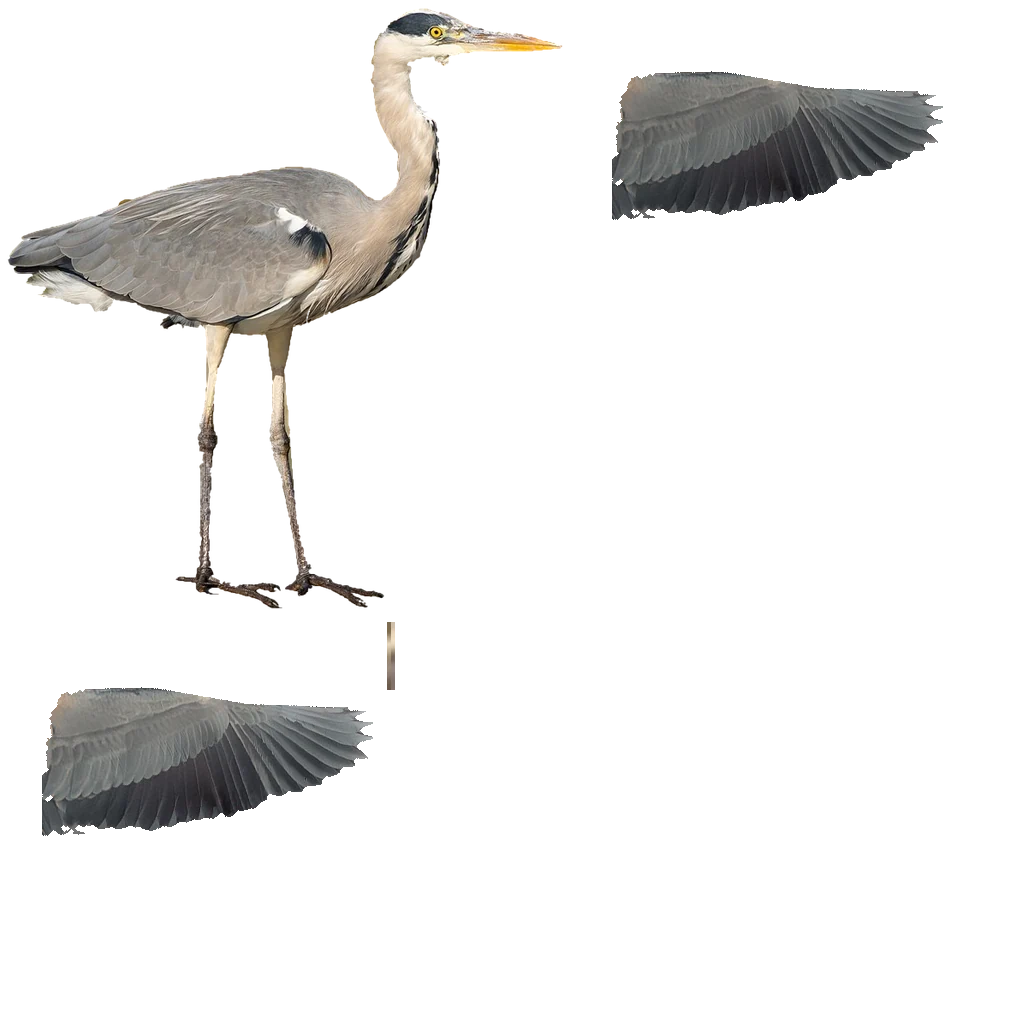
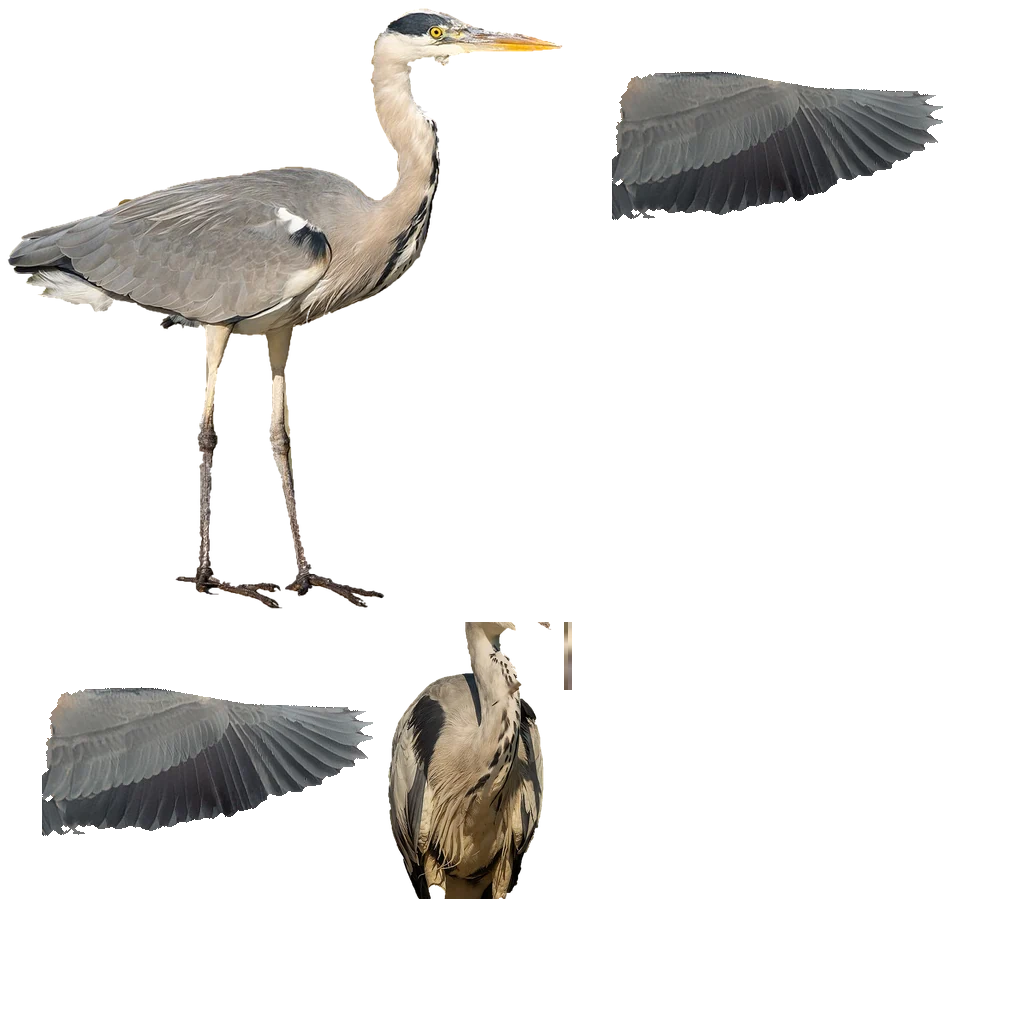
Paint the heron's breast and neck front from a photo taken in front
The standing heron's body was painted from one side-on photo projected
across it, so from in front its breast and neck showed that photo's
colours wrapped round: smeared black blobs and rings instead of the white
neck's black streak and the breast's hanging plumes. Now that it turns
to put its back to the sun, it faces the eye more often.

bird-models.py now takes a `front` photo for a standing kind: a grey
heron facing the camera in Busan (CC BY-SA 4.0, by Basile Morin, so the
heron's image is shared under CC BY-SA too). It is cut out from the chin
to the belly, with the eel across its neck painted out, and brought into
the side photo's warmer light by its white neck. Its rows are matched to
the side photo's at the crown, chin, shoulders, plume ends and belly.
models.json carries, at heights up the body, the front picture's row and
the bird's middle and half-width across it. The mesh projects each
trunk, neck and head vertex into it by height and sideways position.
Wherever the surface faces forward (by its triangles' normals, since the
trunk rings' own normals never point forward), the shader takes the
front photo's colour; the rest keeps the side photo's, so side on the
heron is as it was.

The fliers keep the side photo alone: they are seen side on, or at 30 m
and more, where the body is a few pixels.

Claude-Session: https://claude.ai/code/session_012iNshuFMyvbkPRWxxbwWQm

Changed region(s): [[0.375, 0.5938, 0.5625, 0.875]]

diff --git a/src/birdMeshes.js b/src/birdMeshes.js
@@ -20,6 +20,9 @@
 //     kind's head (`crown`: the skull's top under the crest) is that ring
 //     from its throat to its crown, and its crest above it a fin CREST_FIN
 //     thick, so from in front it is a crest, not a cone as wide as the head;
+//     a standing kind seen near (the heron) has its breast and the front of
+//     its neck painted from a photograph taken from in front (models.json
+//     `front`, frontPaint), as much as they face forward;
 //   - the wings: each a sheet over the flattened wing's outline (`wing`: its
 //     leading and trailing edges along the span), painted from below with the
 //     photograph's underwing and from above with its upper side (gl_FrontFacing
@@ -130,8 +133,10 @@ ${SEEN_THROUGH_WATER}
 attribute vec2 joints;        // the two joints it is skinned to
 attribute float jointBlend;   // the second's share
 attribute float part;
+attribute vec3 front;         // a standing kind's front picture's uv, and how much it is painted from it (frontPaint)
 varying vec2 vUv;
 varying float vPart;
+varying vec3 vFront;
 varying vec3 vNormal;
 varying vec3 vWorld;
 varying vec3 vViewPosition;
@@ -150,13 +155,14 @@ void main() {
   vViewPosition = -mvPosition.xyz;
   vUv = uv;
   vPart = part;
+  vFront = front;
   gl_Position = projectionMatrix * mvPosition;
 }
 `;
 
 const FRAGMENT = /* glsl */ `
 uniform sampler2D uAtlas;
-uniform vec4 uRects[4];       // body, underwing, upper wing, tail: x, y, width, height (uv, from its top left)
+uniform vec4 uRects[5];       // body, underwing, upper wing, tail, a standing kind's front: x, y, width, height (uv, from its top left)
 uniform vec3 uSunIrradiance;
 uniform vec3 uSkyAmbient;
 uniform vec3 uSunDirection;
@@ -165,6 +171,7 @@ uniform vec3 uWaterColor;   // the water's own radiance, for an eye under it
 ${BIRD_HAZE}
 varying vec2 vUv;
 varying float vPart;
+varying vec3 vFront;
 varying vec3 vNormal;
 varying vec3 vWorld;
 varying vec3 vViewPosition;
@@ -181,6 +188,9 @@ void main() {
     if (!gl_FrontFacing) normal = -normal;
   }
   vec4 picture = texture2D(uAtlas, rect.xy + vUv * rect.zw);
+  // What faces forward on a standing kind's breast and neck, from its front photograph (frontPaint).
+  vec4 frontPicture = texture2D(uAtlas, uRects[4].xy + vFront.xy * uRects[4].zw);
+  if (vPart < 0.5) picture.rgb = mix(picture.rgb, frontPicture.rgb, vFront.z);
   if (vPart > 2.5) {
     // A fish in its bill (PART.prey): no picture, a small pond fish's colours (a dark olive back over silver flanks
     // and a pale belly, vUv.y up its side from the belly), its flank catching the light as a fish's scales do.
@@ -431,6 +441,7 @@ export function buildModel(entry) {
   geometry.setAttribute('joints', new THREE.Float32BufferAttribute(joints, 2));
   geometry.setAttribute('jointBlend', new THREE.Float32BufferAttribute(blends, 1));
   geometry.setAttribute('part', new THREE.Float32BufferAttribute(parts, 1));
+  geometry.setAttribute('front', new THREE.Float32BufferAttribute(new Float32Array(parts.length * 3), 3));   // painted from the side alone (a flier is seen side on, or far off)
   geometry.setIndex(indices);
   return { geometry, joints: modelJoints, span: entry.span, length, radius: Math.max(entry.span, length) * 0.6 };
 }
@@ -494,12 +505,66 @@ function addPrey(neck, add, indices) {
   return { grip, along, across };
 }
 
+const FRONT_FACING = [0.25, 0.65];   // a vertex's normal forward (x) from which it starts to be painted from the front photo, and is all
+const FRONT_FADE = [0.03, 0.04];     // m over which the front photo fades in above the belly and out below the chin
+
+/**
+ * A standing kind's front (models.json `front`, tools/bird-models.py front_part), for its first `count` vertices (the
+ * trunk's, the neck's and the head's): each vertex's place on the front picture and how much it is painted from it,
+ * three numbers a vertex (none for the rest). Seen from in front, the bird at a height is as wide as its widest vertex
+ * there (the trunk's, or the neck's above it): a vertex `z` across from the middle is that share of the photo's
+ * half-width across the photo's middle there (its right side, +z, on the photo's left), the photo's row the height's.
+ * What faces forward (FRONT_FACING) takes the front photo's colour, between the belly and the chin (FRONT_FADE); the
+ * rest keeps the side photo's.
+ */
+function frontPaint(front, positions, normals, indices, count) {
+  const paint = new Float32Array((positions.length / 3) * 3);
+  if (!front) return paint;
+  // Which way each vertex faces, from its triangles (the trunk's rings carry normals straight out from its axis, so
+  // its rounded front, where it narrows to the breast, would never face forward), turned outward as its own normal is
+  // (the trunk's and the neck's rings wind opposite ways).
+  const facing = new Float32Array(count * 3), a = new THREE.Vector3(), b = new THREE.Vector3(), c = new THREE.Vector3();
+  for (let index = 0; index < indices.length; index += 3) {
+    const [i, j, k] = [indices[index], indices[index + 1], indices[index + 2]];
+    if (i >= count || j >= count || k >= count) continue;
+    a.fromArray(positions, i * 3); b.fromArray(positions, j * 3).sub(a); c.fromArray(positions, k * 3).sub(a);
+    b.cross(c);   // its area's normal
+    for (const vertex of [i, j, k]) for (let axis = 0; axis < 3; axis++) facing[vertex * 3 + axis] += b.getComponent(axis);
+  }
+  const { heights } = front, stations = heights.length;
+  const lowest = heights[0], highest = heights[stations - 1];
+  const stationOf = (y) => THREE.MathUtils.clamp((y - lowest) / (highest - lowest) * (stations - 1), 0, stations - 1);
+  const widest = new Float32Array(stations).fill(1e-3);
+  for (let vertex = 0; vertex < count; vertex++) {
+    const y = positions[vertex * 3 + 1];
+    if (y < lowest || y > highest) continue;
+    const station = Math.round(stationOf(y));
+    widest[station] = Math.max(widest[station], Math.abs(positions[vertex * 3 + 2]));
+  }
+  const at = (values, y) => {
+    const station = stationOf(y), below = Math.floor(station), above = Math.min(below + 1, stations - 1);
+    return values[below] + (values[above] - values[below]) * (station - below);
+  };
+  for (let vertex = 0; vertex < count; vertex++) {
+    const y = positions[vertex * 3 + 1], z = positions[vertex * 3 + 2];
+    const length = Math.hypot(facing[vertex * 3], facing[vertex * 3 + 1], facing[vertex * 3 + 2]);
+    const outward = facing[vertex * 3] * normals[vertex * 3] + facing[vertex * 3 + 1] * normals[vertex * 3 + 1] + facing[vertex * 3 + 2] * normals[vertex * 3 + 2] < 0 ? -1 : 1;
+    const forward = outward * facing[vertex * 3] / Math.max(length, 1e-12);
+    const within = THREE.MathUtils.smoothstep(y, lowest, lowest + FRONT_FADE[0]) * (1 - THREE.MathUtils.smoothstep(y, highest - FRONT_FADE[1], highest));
+    paint[vertex * 3] = at(front.middle, y) - (z / at(widest, y)) * at(front.half, y);
+    paint[vertex * 3 + 1] = at(front.v, y);
+    paint[vertex * 3 + 2] = THREE.MathUtils.smoothstep(forward, FRONT_FACING[0], FRONT_FACING[1]) * within;
+  }
+  return paint;
+}
+
 /**
  * A standing kind's model from its models.json entry (tools/bird-models.py side_part): metres from its hips, its bill
  * along +x, up +y, its right side +z. Every part of it but the wings is painted from its side picture, projected across
  * it (side on, the photograph): the trunk lofted from its outline; the neck and head a tube along the neck's middle
  * line, as thick as the photo's neck there; each leg a thin tube along the photo's leg, hip to heel to foot, and its toes
- * spread on the ground; the wings as a flying kind's (buildModel), folded away by the rig when it stands.
+ * spread on the ground; the wings as a flying kind's (buildModel), folded away by the rig when it stands. What faces
+ * forward on its breast and neck is painted from its front picture instead, where it has one (frontPaint).
  */
 export function buildStandingModel(entry) {
   const positions = [], normals = [], uvs = [], joints = [], blends = [], parts = [], indices = [];
@@ -593,6 +658,7 @@ export function buildStandingModel(entry) {
       }
     }
   }
+  const bodyVertices = positions.length / 3;   // the trunk's, the neck's and the head's (frontPaint)
   // A thin tube along points ([x, y, z], radius each, joint each), painted from the picture under its middle line.
   const limb = (points, part = PART.body) => {
     const first = positions.length / 3;
@@ -653,6 +719,7 @@ export function buildStandingModel(entry) {
   geometry.setAttribute('joints', new THREE.Float32BufferAttribute(joints, 2));
   geometry.setAttribute('jointBlend', new THREE.Float32BufferAttribute(blends, 1));
   geometry.setAttribute('part', new THREE.Float32BufferAttribute(parts, 1));
+  geometry.setAttribute('front', new THREE.Float32BufferAttribute(frontPaint(entry.front, positions, normals, indices, bodyVertices), 3));
   geometry.setIndex(indices);
   const hipsHeight = -Math.min(...side.legs.map((leg) => leg.foot[1]));
   // The neck's joints, and each link's direction as photographed (the last the head's: the nape to the bill's tip).
@@ -717,7 +784,7 @@ export function createBirdView({ lighting, haze, mirrorLayer, onLoaded = () => {
       texture.needsUpdate = true;
       const model = entry.standing ? buildStandingModel(entry) : buildModel(entry);
       // A standing kind's fourth picture is its legs' colours (a column a leg, buildStandingModel), where a flying kind's is its tail's.
-      const rects = (entry.standing ? ['side', 'under', 'upper', 'legs'] : ['body', 'under', 'upper', 'tail']).map((name) => new THREE.Vector4(...entry.uv[name]));
+      const rects = (entry.standing ? ['side', 'under', 'upper', 'legs', entry.front ? 'front' : 'side'] : ['body', 'under', 'upper', 'tail', 'body']).map((name) => new THREE.Vector4(...entry.uv[name]));
       kinds.set(kind, { model, texture, rects });
       for (const sprite of sprites) if (sprite.kind === kind) dress(sprite);
       onLoaded();
@@ -742,7 +809,7 @@ export function createBirdView({ lighting, haze, mirrorLayer, onLoaded = () => {
     const uniforms = {
       ...shared,
       uAtlas: { value: standIn },
-      uRects: { value: [0, 1, 2, 3].map(() => new THREE.Vector4(0, 0, 1, 1)) },
+      uRects: { value: [0, 1, 2, 3, 4].map(() => new THREE.Vector4(0, 0, 1, 1)) },
       uJoints: { value: Array.from({ length: JOINT_COUNT }, () => new THREE.Matrix4()) },
     };
     const placeholder = new THREE.BufferGeometry();
@@ -844,6 +911,7 @@ export function createBirdView({ lighting, haze, mirrorLayer, onLoaded = () => {
     geometry.setAttribute('joints', new THREE.Float32BufferAttribute(new Float32Array(geometry.attributes.position.count * 2), 2));
     geometry.setAttribute('jointBlend', new THREE.Float32BufferAttribute(new Float32Array(geometry.attributes.position.count), 1));
     geometry.setAttribute('part', new THREE.Float32BufferAttribute(new Float32Array(geometry.attributes.position.count), 1));
+    geometry.setAttribute('front', new THREE.Float32BufferAttribute(new Float32Array(geometry.attributes.position.count * 3), 3));
     const meshes = [...sprite.meshes, sprite.under];
     const was = meshes.map((mesh) => mesh.geometry);
     for (const mesh of meshes) { mesh.geometry = geometry; mesh.visible = true; mesh.frustumCulled = false; }

diff --git a/credits.html b/credits.html
@@ -40,7 +40,7 @@
 </table></div>
 <p>The stitched backdrops' skies are Poly Haven's Qwantani pure skies (below).</p>
 <h2>Birds</h2>
-<p>The birds are photographs of real ones from Wikimedia Commons, cut out of their backgrounds and resized, or for the 3D birds painted onto their models (<code>tools/bird-sprites.py</code>, <code>tools/bird-models.py</code>; this section is written by <code>tools/bird-credits.mjs</code> from the credits they record). Because the kelp gull's, herring gull's, african sacred ibis's, blue jay's and northern cardinal's images are made from CC BY-SA photographs, they are shared under <a href="https://creativecommons.org/licenses/by-sa/4.0/">CC BY-SA 4.0</a> too.</p>
+<p>The birds are photographs of real ones from Wikimedia Commons, cut out of their backgrounds and resized, or for the 3D birds painted onto their models (<code>tools/bird-sprites.py</code>, <code>tools/bird-models.py</code>; this section is written by <code>tools/bird-credits.mjs</code> from the credits they record). Because the kelp gull's, herring gull's, grey heron's, african sacred ibis's, blue jay's and northern cardinal's images are made from CC BY-SA photographs, they are shared under <a href="https://creativecommons.org/licenses/by-sa/4.0/">CC BY-SA 4.0</a> too.</p>
 <div class="table"><table>
 <tr><th>Shows</th><th>Photograph</th><th>Author</th><th>Licence</th></tr>
 <tr><td>Kelp gull (Rocky cove)</td><td><a href="https://commons.wikimedia.org/wiki/File:Kelp_gull_half_moon_island_1.17.25_DSC_9790-topaz-rawdenoise.jpg">Kelp gull half moon island 1.17.25 DSC 9790-topaz-rawdenoise</a></td><td>lwolfartist</td><td><a href="https://creativecommons.org/licenses/by/2.0/">CC BY 2.0</a></td></tr>
@@ -51,6 +51,7 @@
 <tr><td>Herring gull (Loch Ness)</td><td><a href="https://commons.wikimedia.org/wiki/File:Herring_gull_in_flight_%2800905%29.jpg">Herring gull in flight (00905)</a></td><td>Rhododendrites</td><td><a href="https://creativecommons.org/licenses/by-sa/4.0/">CC BY-SA 4.0</a></td></tr>
 <tr><td>Grey heron (Koi pond, Highlands)</td><td><a href="https://commons.wikimedia.org/wiki/File:Grey_heron_2025_10_26_02.jpg">Grey heron 2025 10 26 02</a></td><td>Alexis Lours</td><td><a href="https://creativecommons.org/licenses/by/4.0/">CC BY 4.0</a></td></tr>
 <tr><td>Grey heron (Koi pond, Highlands)</td><td><a href="https://commons.wikimedia.org/wiki/File:Ardea_cinerea_EM1B6250_%2833380183305%29.jpg">Ardea cinerea EM1B6250 (33380183305)</a></td><td>Bengt Nyman</td><td><a href="https://creativecommons.org/licenses/by/2.0/">CC BY 2.0</a></td></tr>
+<tr><td>Grey heron (Koi pond, Highlands)</td><td><a href="https://commons.wikimedia.org/wiki/File:Front_view_of_a_grey_heron_eating_fish_near_a_pond_of_Busan_Citizens_Park_in_South_Korea.jpg">Front view of a grey heron eating fish near a pond of Busan Citizens Park in South Korea</a></td><td>Basile Morin</td><td><a href="https://creativecommons.org/licenses/by-sa/4.0/">CC BY-SA 4.0</a></td></tr>
 <tr><td>Great frigatebird (Polynesian lagoon)</td><td><a href="https://commons.wikimedia.org/wiki/File:Great_Frigatebird_%28_immature%29_Eastern_Island_Midway_Atoll_2019-01-07_16-16-20_%2846379948975%29.jpg">Great Frigatebird ( immature) Eastern Island Midway Atoll 2019-01-07 16-16-20 (46379948975)</a></td><td>Bettina Arrigoni</td><td><a href="https://creativecommons.org/licenses/by/2.0/">CC BY 2.0</a></td></tr>
 <tr><td>Great frigatebird (Polynesian lagoon)</td><td><a href="https://commons.wikimedia.org/wiki/File:Great_Frigatebird_%28_immature%29_Eastern_Island_Midway_Atoll_2019-01-07_16-22-01_%2846571488854%29.jpg">Great Frigatebird ( immature) Eastern Island Midway Atoll 2019-01-07 16-22-01 (46571488854)</a></td><td>Bettina Arrigoni</td><td><a href="https://creativecommons.org/licenses/by/2.0/">CC BY 2.0</a></td></tr>
 <tr><td>Common raven (Swiss Alps)</td><td><a href="https://commons.wikimedia.org/wiki/File:Common_Raven_on_Seedskadee_NWR_%2822849558584%29.jpg">Common Raven on Seedskadee NWR (22849558584)</a></td><td>USFWS Mountain-Prairie</td><td><a href="https://creativecommons.org/publicdomain/mark/1.0/">Public domain</a></td></tr>

diff --git a/tools/bird-models.py b/tools/bird-models.py
@@ -41,6 +41,15 @@
 #     the shade the body casts on the wing's root is lifted (`unshade`).
 #   - the tail, a fan: its colour the body photo's at the tail, or its own
 #     feathers drawn from it (`tailFan`).
+#   - a standing bird's front (`front`): a photograph of it from in front, cut
+#     out from the chin down to its belly, its rows matched to the side photo's
+#     (`rows`: front photo row, side photo row, at the crown, chin, shoulders,
+#     the breast's plumes and the belly), so models.json carries, at heights
+#     up the body (m from the hips), the front picture's row there and the
+#     middle and half-width of the bird across it; src/birdMeshes.js paints
+#     what faces forward from it (the breast and the neck's front), the rest
+#     from the side photo. What lies across the bird (a fish in its bill) is
+#     painted out (`mend`).
 # Each is cut out of its sky as tools/bird-sprites.py cuts a bird (a smooth
 # fit of the sky, refitted; the alpha its distance from it), brought to a
 # common light (`gamma`, then `gain` per channel) and packed with the others into the
@@ -93,7 +102,8 @@ KINDS = {
         tailColour='body',
     ),
     # Grey heron: standing side on on a rock (cut out by GrabCut, whole down to its toes), its trunk, neck and head and
-    # legs traced on it; a wing from a heron overhead (its far wing raised, spread flat to the camera).
+    # legs traced on it; a wing from a heron overhead (its far wing raised, spread flat to the camera); its breast and
+    # neck's front from a heron facing the camera. That photograph is CC BY-SA, so this kind's image is shared so too.
     'heron': dict(
         length=0.92, span=1.75, standing=True,
         side=dict(file='Grey heron 2025 10 26 02.jpg', author='Alexis Lours', licence=CC_BY_4,
@@ -126,6 +136,17 @@ KINDS = {
                   points=[(643, 523), (760, 577), (723, 337), (868, 347)],
                   at=[(0.08, 0.06), (0.08, -0.27), (0.49, 0.06), (0.56, -0.24)],
                   low=20, high=48, gamma=1.0, gain=(1.08, 1.0, 0.9), neutral=True, upper=dict(tint=(1.0, 1.0, 1.0)), under=dict(tint=(0.9, 0.9, 0.9))),
+        # From in front, eating an eel by a pond in Busan (its head turned and the eel across its neck: painted from
+        # the chin down, the eel painted out), brought into the side photo's warmer light by its white neck.
+        front=dict(file='Front view of a grey heron eating fish near a pond of Busan Citizens Park in South Korea.jpg', author='Basile Morin', licence=CC_BY_SA_4,
+                   box=(380, 380, 820), waterline=1200, gain=(0.889, 0.832, 0.772),
+                   outline=[(620, 395), (700, 400), (715, 470), (690, 530), (700, 610), (770, 650), (790, 720), (795, 900), (780, 1080), (740, 1200), (560, 1200), (480, 1150),
+                            (425, 1040), (410, 850), (425, 700), (500, 650), (600, 610), (605, 520), (600, 450)],
+                   surely=[([(650, 430), (645, 540), (640, 690)], 16), ([(600, 760), (600, 1080)], 50), ([(470, 760), (470, 1000)], 20), ([(735, 760), (735, 1000)], 20)],
+                   notBird=[([(350, 500), (370, 1190)], 20), ([(860, 700), (850, 1190)], 20), ([(520, 420), (545, 600)], 14), ([(760, 620), (860, 640)], 10)],
+                   mend=[([(850, 580), (780, 600), (710, 650), (670, 690)], 18)],
+                   # Front photo row, side photo row: the crown, the chin, the shoulders, the breast's plumes' ends, the belly.
+                   rows=[(406, 100), (520, 168), (690, 290), (1000, 430), (1140, 484)]),
     ),
     # Blue jay (the Reflecting Pool): its body side on, foraging on the ground (its head raised, so levelled along its
     # body: `level`; its folded wing painted out, `repaint`, the back's blue down to where the spread wing's root is and
@@ -763,6 +784,51 @@ def side_part(spec, length):
     }
 
 
+def front_part(spec, side, length):
+    """A standing bird from in front (the header's `front`): its picture from the chin to the belly (RGBA), and at
+    heights up its body (m from the hips, by the side photo's scale) the picture's row (v, from its top) and the bird's
+    middle and half-width across it (u), each 0 to 1 over the picture."""
+    image = mended(photo(spec['file']), spec)
+    alpha = cut_grabcut(image, spec)
+    image = np.clip(image * np.array(spec.get('gain', (1, 1, 1))), 0, 255)   # into the side photo's light (its white neck's colour)
+    scale = length / abs(side['bill'][0] - side['tail'][0])   # the side photo's m a px
+    front_rows = np.array([row for row, _ in spec['rows']], np.float64)
+    heights = np.array([-(side_row - side['hips'][1]) * scale for _, side_row in spec['rows']])
+    chin, belly = spec['rows'][1][0], spec['rows'][-1][0]   # the front photo's rows painted from: the chin's to the belly's
+    top, bottom = chin - 8, belly + 8
+    ys, xs = np.nonzero(alpha[top:bottom] > 0.02)
+    left, right = xs.min() - 2, xs.max() + 3
+    rgba = np.dstack([image, alpha * 255]).astype(np.uint8)[top:bottom, left:right]
+    # As sharp as the side picture: the front photo's px a metre over the chin to the belly, by the side's heights.
+    metres = heights[1] - heights[-1]
+    pixels = SIDE_PIXELS_PER_METRE * metres / (belly - chin)   # picture px a photo px
+    size = (int(round((right - left) * pixels)), int(round((bottom - top) * pixels)))
+    picture = Image.fromarray(rgba).resize(size, Image.LANCZOS)
+    array = np.asarray(picture).astype(np.float64)
+    solid = array[..., 3] > 200
+    _, (near_rows, near_columns) = ndimage.distance_transform_edt(~solid, return_indices=True)
+    array[..., :3] = np.where(solid[..., None], array[..., :3], array[near_rows, near_columns, :3])
+    picture = Image.fromarray(array.clip(0, 255).astype(np.uint8))
+    # At heights from the belly to the chin: the row there (the rows' heights matched piecewise), and across it the
+    # widest run of the cut-out's solid pixels (its middle and half-width), smoothed up and down a little.
+    stations = np.linspace(heights[-1], heights[1], STATIONS)
+    rows = np.interp(stations, heights[::-1], front_rows[::-1])
+    middles, halves = [], []
+    for row in rows:
+        solid_row = np.nonzero(alpha[int(round(row)), left:right] > 0.5)[0]
+        runs = np.split(solid_row, np.nonzero(np.diff(solid_row) > 1)[0] + 1) if solid_row.size else []
+        run = max(runs, key=len) if runs else np.array([0, right - left - 1])
+        middles.append((run[0] + run[-1] + 1) / 2); halves.append((run[-1] - run[0] + 1) / 2)
+    smooth = lambda values: [float(np.mean(values[max(0, index - 2): index + 3])) for index in range(len(values))]
+    width = right - left
+    return picture, {
+        'heights': [round(float(height), 4) for height in stations],
+        'v': [round(float((row - top) / (bottom - top)), 4) for row in rows],
+        'middle': [round(value / width, 4) for value in smooth(middles)],
+        'half': [round(value / width, 4) for value in smooth(halves)],
+    }
+
+
 def mantled(picture, upper):
     """A gull's upper side from its underside (`upper` with a `mantle` colour): the same feathers, their light kept as
     detail on the mantle's grey (a white underwing's feathers lie as the grey upper side's do), its dark wing tips kept
@@ -895,12 +961,17 @@ def main():
             side_picture, legs_picture, side = side_part(spec['side'], spec['length'])
             wing_picture, wing = wing_part(spec['wing'], spec['span'])
             parts = {'side': side_picture, 'under': tinted(wing_picture, spec['wing']['under']['tint']), 'upper': tinted(wing_picture, spec['wing']['upper']['tint']), 'legs': legs_picture}
+            front = None
+            if 'front' in spec:
+                parts['front'], front = front_part(spec['front'], spec['side'], spec['length'])
             atlas, uv = pack(parts)
             atlas = bleed(atlas)
             file = f'{kind}-model.webp'
             atlas.save(OUT / file, 'WEBP', quality=88, method=6)
             models[kind] = {'atlas': file, 'size': list(atlas.size), 'length': spec['length'], 'span': spec['span'], 'standing': True,
-                            'side': side, 'wing': wing, 'uv': uv, 'credits': [credit(spec['side']), credit(spec['wing'])]}
+                            'side': side, 'wing': wing, 'uv': uv, 'credits': [credit(spec['side']), credit(spec['wing'])] + ([credit(spec['front'])] if front else [])}
+            if front:
+                models[kind]['front'] = front
             print(f'{kind}: {atlas.size[0]}×{atlas.size[1]}, {(OUT / file).stat().st_size // 1024} KB; wing tip {wing["tip"]} m; hips {-min(leg["foot"][1] for leg in side["legs"]):.3f} m up')
             continue
         # A small bird, seen near, sharper (`pixelsPerMetre`).

diff --git a/CREDITS.md b/CREDITS.md
@@ -23,7 +23,7 @@ The stitched backdrops' skies are Poly Haven's Qwantani pure skies (below).
 
 ## Birds
 
-The birds are photographs of real ones from Wikimedia Commons, cut out of their backgrounds and resized, or for the 3D birds painted onto their models (`tools/bird-sprites.py`, `tools/bird-models.py`; this section is written by `tools/bird-credits.mjs` from the credits they record). Because the kelp gull's, herring gull's, african sacred ibis's, blue jay's and northern cardinal's images are made from CC BY-SA photographs, they are shared under [CC BY-SA 4.0](https://creativecommons.org/licenses/by-sa/4.0/) too.
+The birds are photographs of real ones from Wikimedia Commons, cut out of their backgrounds and resized, or for the 3D birds painted onto their models (`tools/bird-sprites.py`, `tools/bird-models.py`; this section is written by `tools/bird-credits.mjs` from the credits they record). Because the kelp gull's, herring gull's, grey heron's, african sacred ibis's, blue jay's and northern cardinal's images are made from CC BY-SA photographs, they are shared under [CC BY-SA 4.0](https://creativecommons.org/licenses/by-sa/4.0/) too.
 
 | Shows | Photograph | Author | Licence |
 |---|---|---|---|
@@ -35,6 +35,7 @@ The birds are photographs of real ones from Wikimedia Commons, cut out of their 
 | Herring gull (Loch Ness) | [Herring gull in flight (00905)](https://commons.wikimedia.org/wiki/File:Herring_gull_in_flight_%2800905%29.jpg) | Rhododendrites | [CC BY-SA 4.0](https://creativecommons.org/licenses/by-sa/4.0/) |
 | Grey heron (Koi pond, Highlands) | [Grey heron 2025 10 26 02](https://commons.wikimedia.org/wiki/File:Grey_heron_2025_10_26_02.jpg) | Alexis Lours | [CC BY 4.0](https://creativecommons.org/licenses/by/4.0/) |
 | Grey heron (Koi pond, Highlands) | [Ardea cinerea EM1B6250 (33380183305)](https://commons.wikimedia.org/wiki/File:Ardea_cinerea_EM1B6250_%2833380183305%29.jpg) | Bengt Nyman | [CC BY 2.0](https://creativecommons.org/licenses/by/2.0/) |
+| Grey heron (Koi pond, Highlands) | [Front view of a grey heron eating fish near a pond of Busan Citizens Park in South Korea](https://commons.wikimedia.org/wiki/File:Front_view_of_a_grey_heron_eating_fish_near_a_pond_of_Busan_Citizens_Park_in_South_Korea.jpg) | Basile Morin | [CC BY-SA 4.0](https://creativecommons.org/licenses/by-sa/4.0/) |
 | Great frigatebird (Polynesian lagoon) | [Great Frigatebird ( immature) Eastern Island Midway Atoll 2019-01-07 16-16-20 (46379948975)](https://commons.wikimedia.org/wiki/File:Great_Frigatebird_%28_immature%29_Eastern_Island_Midway_Atoll_2019-01-07_16-16-20_%2846379948975%29.jpg) | Bettina Arrigoni | [CC BY 2.0](https://creativecommons.org/licenses/by/2.0/) |
 | Great frigatebird (Polynesian lagoon) | [Great Frigatebird ( immature) Eastern Island Midway Atoll 2019-01-07 16-22-01 (46571488854)](https://commons.wikimedia.org/wiki/File:Great_Frigatebird_%28_immature%29_Eastern_Island_Midway_Atoll_2019-01-07_16-22-01_%2846571488854%29.jpg) | Bettina Arrigoni | [CC BY 2.0](https://creativecommons.org/licenses/by/2.0/) |
 | Common raven (Swiss Alps) | [Common Raven on Seedskadee NWR (22849558584)](https://commons.wikimedia.org/wiki/File:Common_Raven_on_Seedskadee_NWR_%2822849558584%29.jpg) | USFWS Mountain-Prairie | [Public domain](https://creativecommons.org/publicdomain/mark/1.0/) |

diff --git a/README.md b/README.md
@@ -711,18 +711,19 @@ back and flank (the mantle grey, the flank white), its wings from an
 underwing photographed as the gull banked overhead (the shade of its body
 on the wing's root lifted) and its grey upper side made from those same
 feathers, black tips and white trailing edge kept. The grey heron is one too: its trunk, twelve-jointed
-neck (its poses read off a smooth curve, so its S bends without corners) and legs shaped from a side-on photograph, so it stands, looks about,
+neck (its poses read off a smooth curve, so its S bends without corners) and legs shaped from a side-on photograph (its breast and the
+front of its neck painted from one taken from in front), so it stands, looks about,
 draws its neck in or stretches it, walks the bank, strikes at fish, holds
 its wings open in a drooped spread (`SPREAD`), crouches
 and takes off trailing its legs, its legs seen through the water
 (`poseStanding` in `src/birdRig.js`). `tools/bird-look.mjs` shoots a model
-alone through its wingbeat (`--poses=standing`: a standing kind's ways; `--focus` and
+alone through its wingbeat (`--poses=standing`: a standing kind's ways; `--poses=landing`: the heron's flare; `--focus` and
 `--distance` for a close-up, `--look` to turn its head). The
 other kinds are still pictures, as follows, until each has its model.
 
 Each bird is a photograph of a real one, from Wikimedia Commons (CC BY, CC0
-or public domain, and CC BY-SA for the herring gull's model, the jay's
-and cardinal's wings, the ibis's glide and the kelp gull's head-on frame, so their
+or public domain, and CC BY-SA for the herring gull's model, the heron's
+front, the jay's and cardinal's wings, the ibis's glide and the kelp gull's head-on frame, so their
 images are shared under CC BY-SA too; the credits are in `CREDITS.md` and in
 `assets/birds/birds.json`), cut out of its sky by `tools/bird-sprites.py`
 (its outline matted, so no rim of sky shows against land) and packed into
